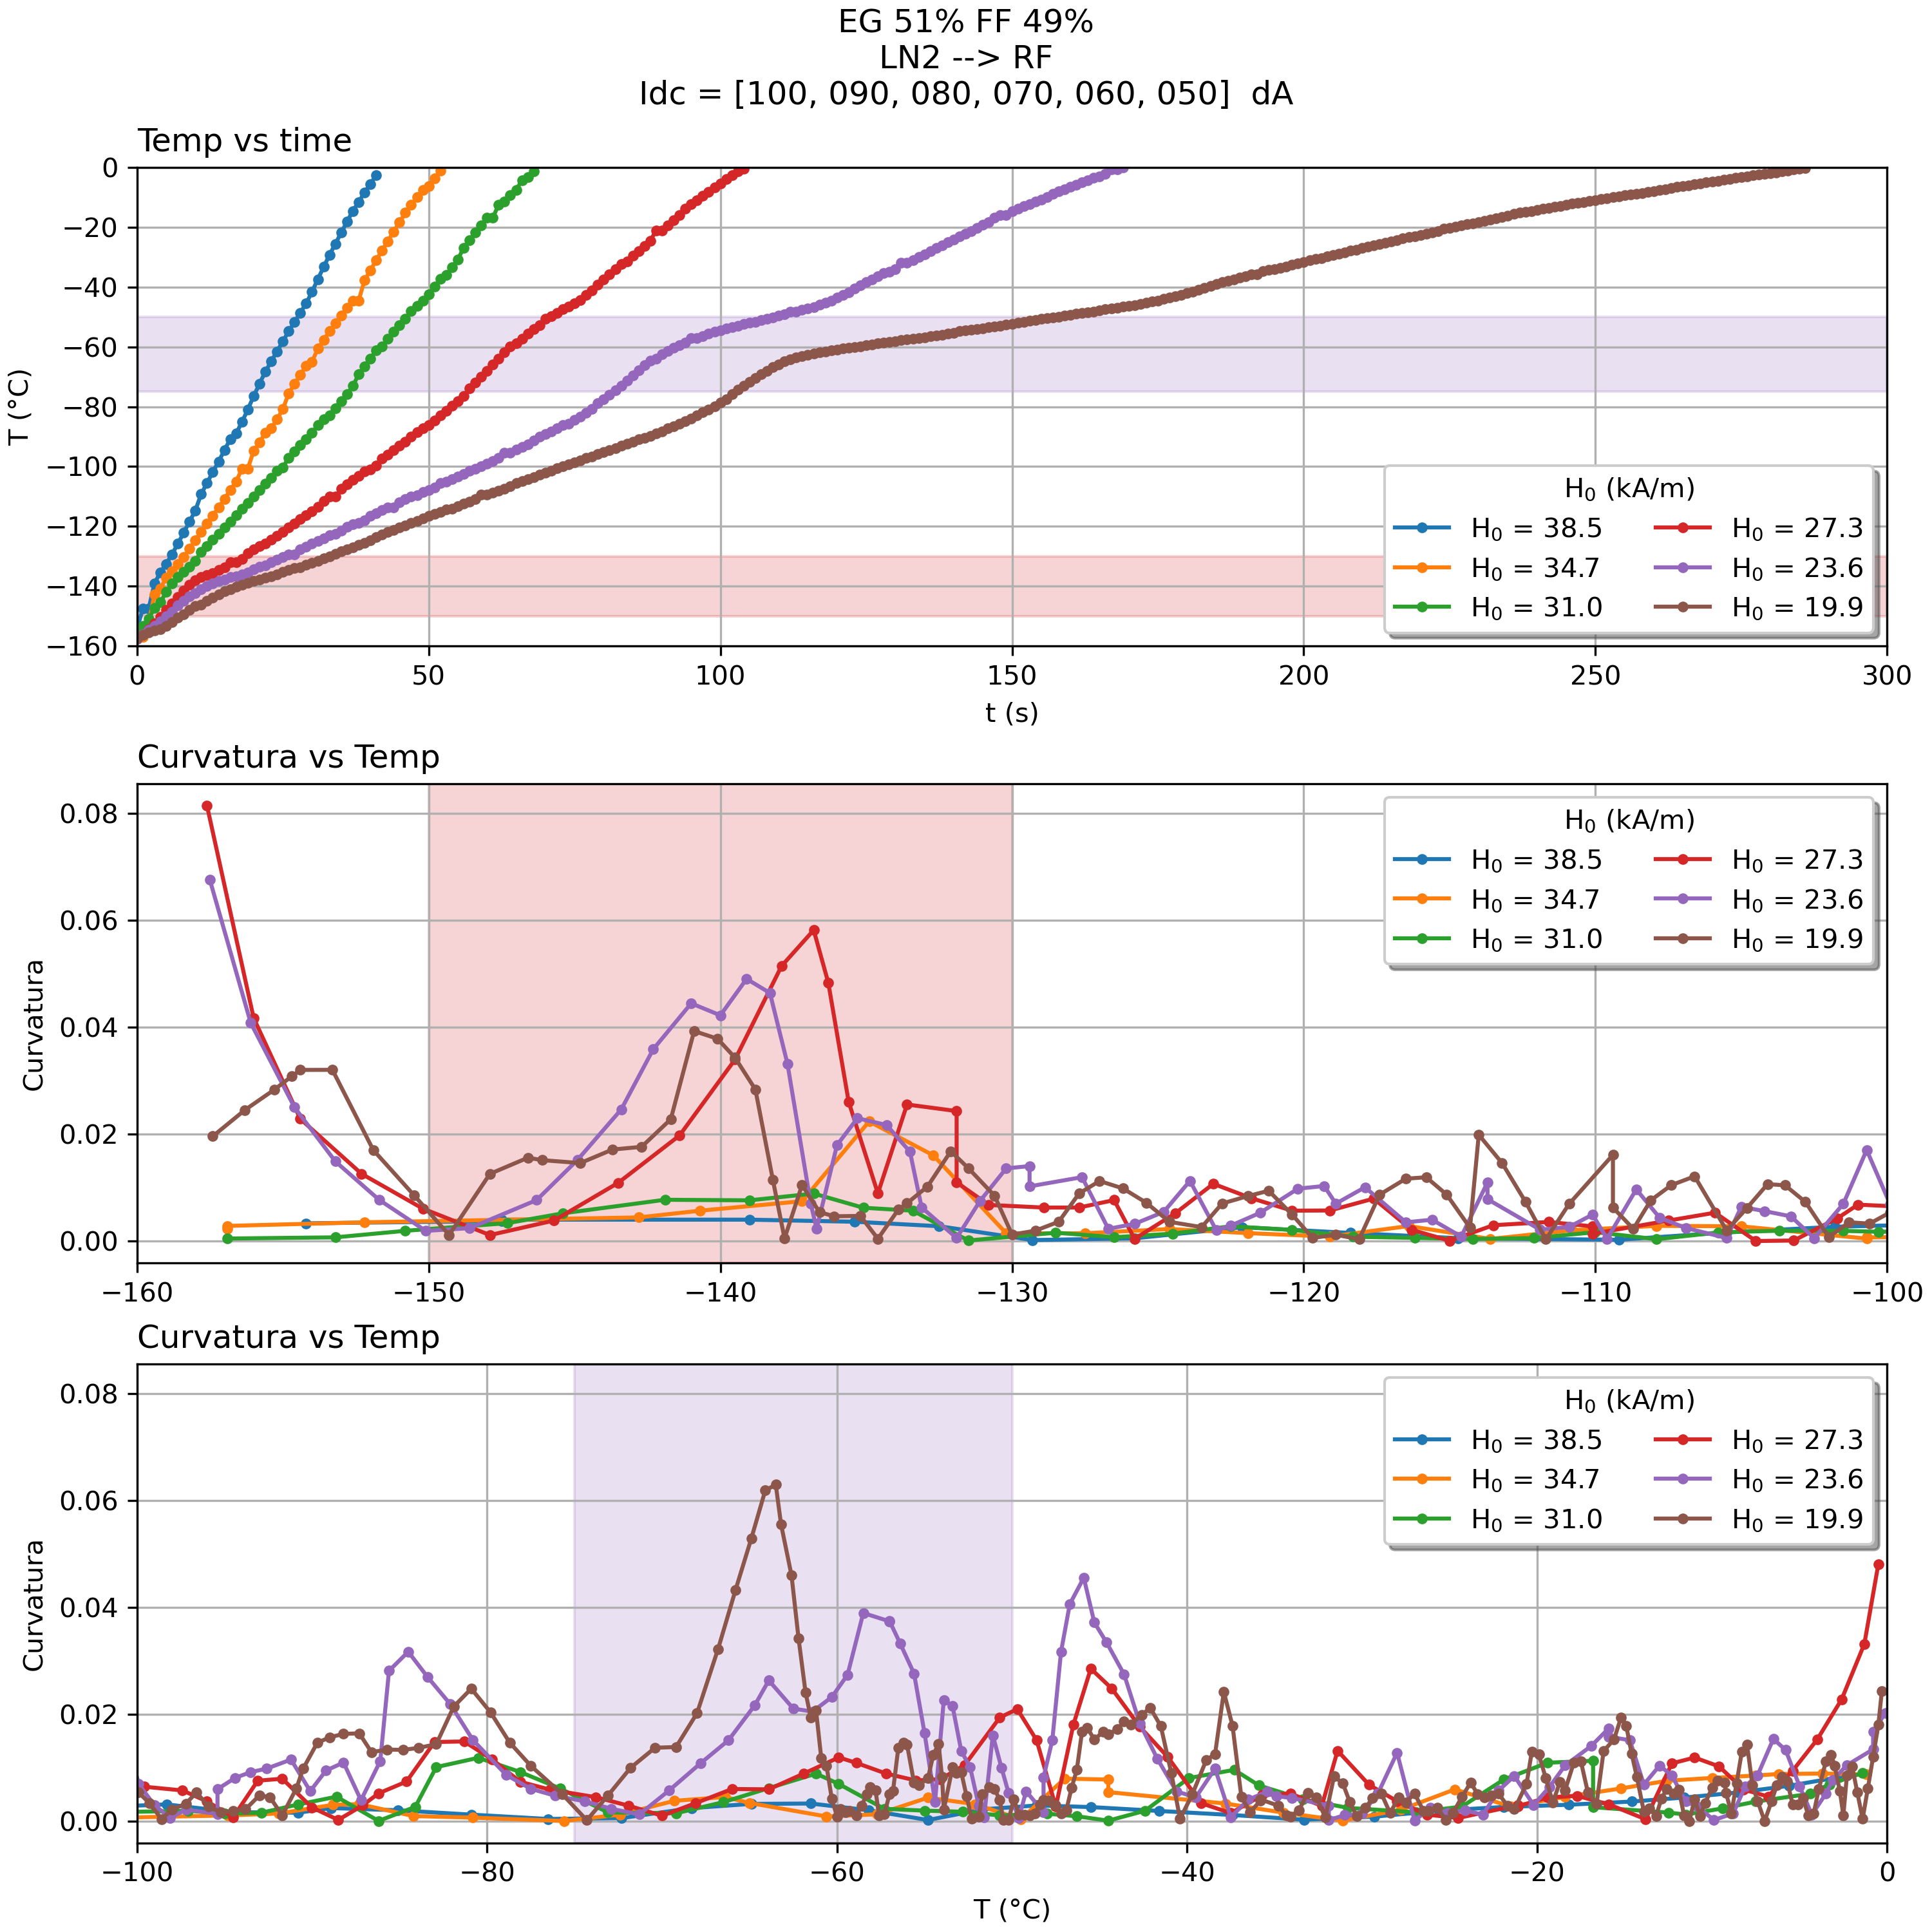
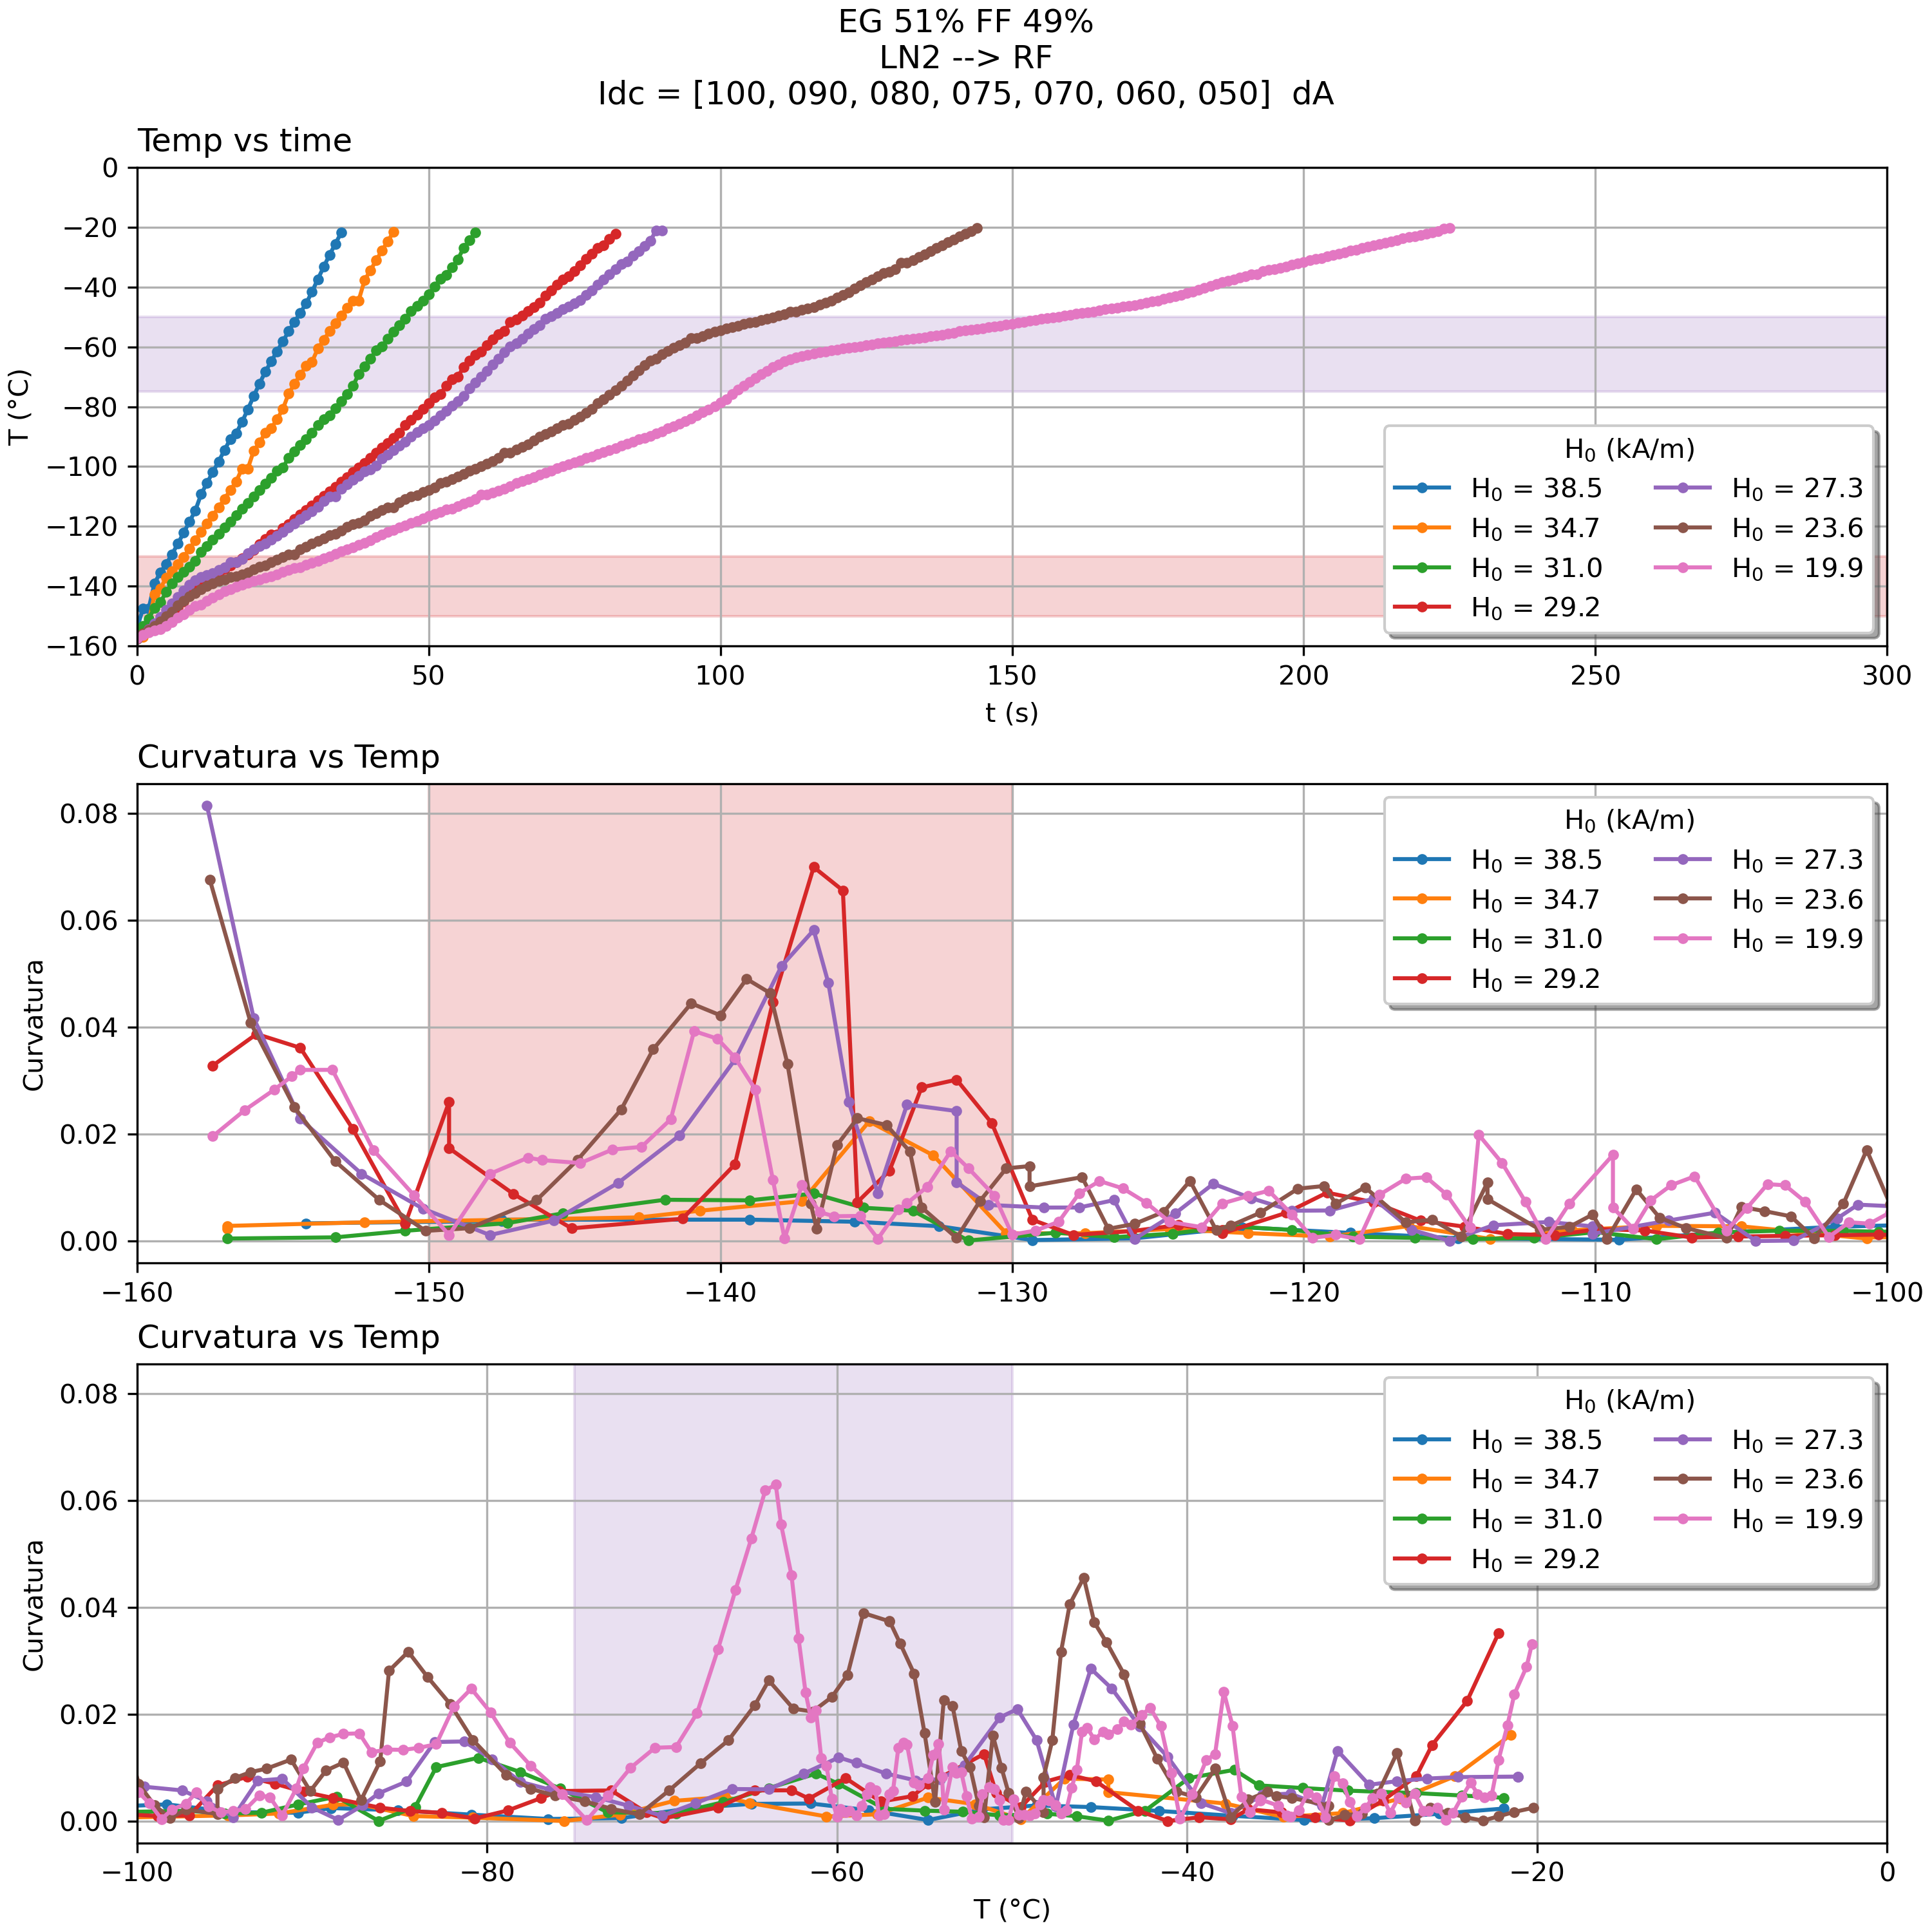
agregada 075

diff --git a/comparativa_templogs.py b/comparativa_templogs.py
@@ -58,9 +58,9 @@ T,T_min=[],[]
 Indx_min,dT=[],[]
 
 
-fig,(ax1,ax2) = plt.subplots(2,1,figsize=(10,9),constrained_layout=True)
-ax1.set_title('1.1 - EG 51% FF 49% - LN2 --> RF - Idc = [100, 090, 080] dA',loc='left')
-ax2.set_title('1.2 - EG 51% FF 49% - LN2 --> RF - Idc = [070, 060 , 050] dA',loc='left')
+fig1,(ax1,ax2) = plt.subplots(2,1,figsize=(10,9),constrained_layout=True)
+ax1.set_title('1.1 - EG 51% FF 49% - LN2 --> RF - Idc = [100, 090, 080, 075] dA',loc='left')
+ax2.set_title('1.2 - EG 51% FF 49% - LN2 --> RF - Idc = [075, 070, 060 , 050] dA',loc='left')
 
 for i,p in enumerate(temps_500_EG51_FF49[:4]):
     _,time,temp_CH1, _ = lector_templog(p)
@@ -90,14 +90,14 @@ for i,p in enumerate(temps_500_EG51_FF49[3:]):
 
 for a in (ax1,ax2):
     a.grid()
-    a.legend(title='f = 300 kHz',loc='lower right',shadow=True,frameon=True)
+    a.legend(title='f = 300 kHz',loc='lower right',shadow=True,frameon=True,ncol=2)
     a.set_ylabel('T (°C)')
 ax1.set_xlim(0,150)
 ax2.set_xlim(0,500)
 ax2.set_xlabel('t (s)')
 
 #%% Curvatura
-fig25,(ax,ax2,ax3) = plt.subplots(3,1,figsize=(10,10),constrained_layout=True)
+fig2,(ax,ax2,ax3) = plt.subplots(3,1,figsize=(10,10),constrained_layout=True)
 ax.set_title('Temp vs time',loc='left')
 ax2.set_title('Curvatura vs Temp',loc='left')
 ax3.set_title('Curvatura vs Temp',loc='left')
@@ -149,7 +149,7 @@ for a in [ax,ax2,ax3]:
     a.grid()
     a.legend(title='H$_0$ (kA/m)',ncol=2,shadow=True,frameon=True)
 
-plt.suptitle('EG 51% FF 49%\nLN2 --> RF\nIdc = [100, 090, 080, 070, 060, 050]  dA')
+plt.suptitle('EG 51% FF 49%\nLN2 --> RF\nIdc = [100, 090, 080, 075, 070, 060, 050]  dA')
 #%% Ajuste exponencial y bi-exponencial
 # Taux=[]
 # fits_exp=[]
@@ -281,8 +281,8 @@ plt.suptitle('EG 51% FF 49%\nLN2 --> RF\nIdc = [100, 090, 080, 070, 060, 050]  d
 # ax.set_xlim(-170,0)
 # ax.set_ylim(-10,10)
 #%% salvo figuras
-fig.savefig('0_EG51_FF49_LN2_to_RF_150_125_100_075_050_000.png',dpi=300)
-fig25.savefig('1_EG51_FF49_templogs_curvatura.png',dpi=300)
+fig1.savefig('0_EG51_FF49_LN2_to_RF_150_125_100_075_050_000.png',dpi=300)
+fig2.savefig('1_EG51_FF49_templogs_curvatura.png',dpi=300)
 
 # fig2.savefig('2_EG55_FF45_LN2_to_RF_150_125_100.png',dpi=300)
 # fig23.savefig('2_EG55_FF45_grad_temp_150_125_100.png',dpi=300)